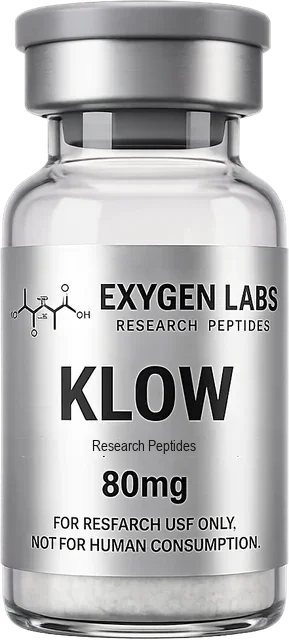
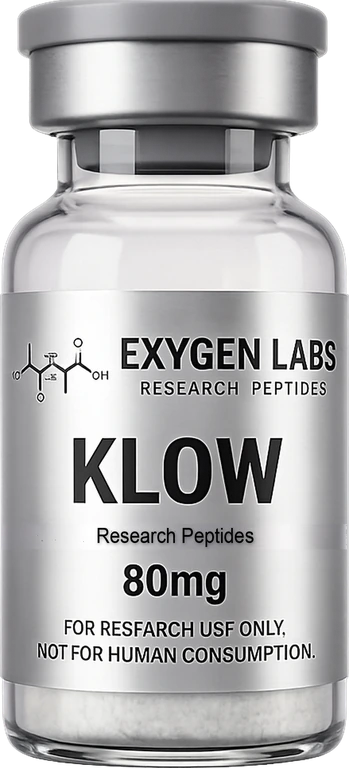
Hero: viales nitidos y sin halo en los dos temas
Los 15 webp se regeneran a 768 px de alto con calidad 92 (antes 640 y 86) y con
el borde descontaminado, asi que ya no traen el halo claro que se veia en tema
oscuro ni la orilla sucia del tema claro.

Y se quita `will-change: transform` de la imagen del vial: el transform vive en
el enlace padre, no en la imagen. Con el will-change el navegador le daba capa
propia y la dibujaba al tamano de layout (191 px), y luego el scale(1.28) del
padre ESTIRABA ese mapa de bits en la GPU. Por eso se veian pixelados.

diff --git a/src/index.css b/src/index.css
@@ -449,7 +449,11 @@ html body[data-scroll-locked] {
     width: auto;
     filter: drop-shadow(0 18px 32px rgba(20, 24, 30, 0.16));
     transition: transform 0.2s cubic-bezier(0.4, 0, 0.2, 1), filter 0.2s cubic-bezier(0.4, 0, 0.2, 1);
-    will-change: transform;
+    /* ⚠ NO poner `will-change: transform` aqui (Christian, 2026-07-29): por eso
+       se veian PIXELADOS. El transform vive en .hero-vial-link, el padre; esta
+       imagen nunca lo usa. Con el will-change el navegador le daba su propia capa
+       y la dibujaba al tamano de layout (191 px), y luego el scale(1.28) del padre
+       ESTIRABA ese mapa de bits en la GPU en vez de volver a dibujarlo nitido. */
 }
 
 .dark .hero-vial {
